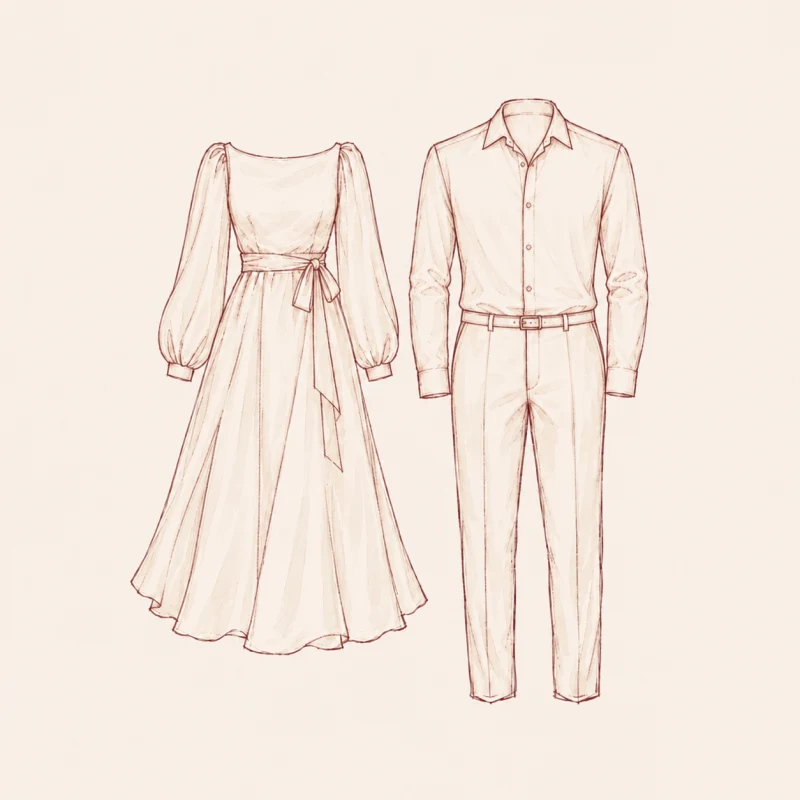
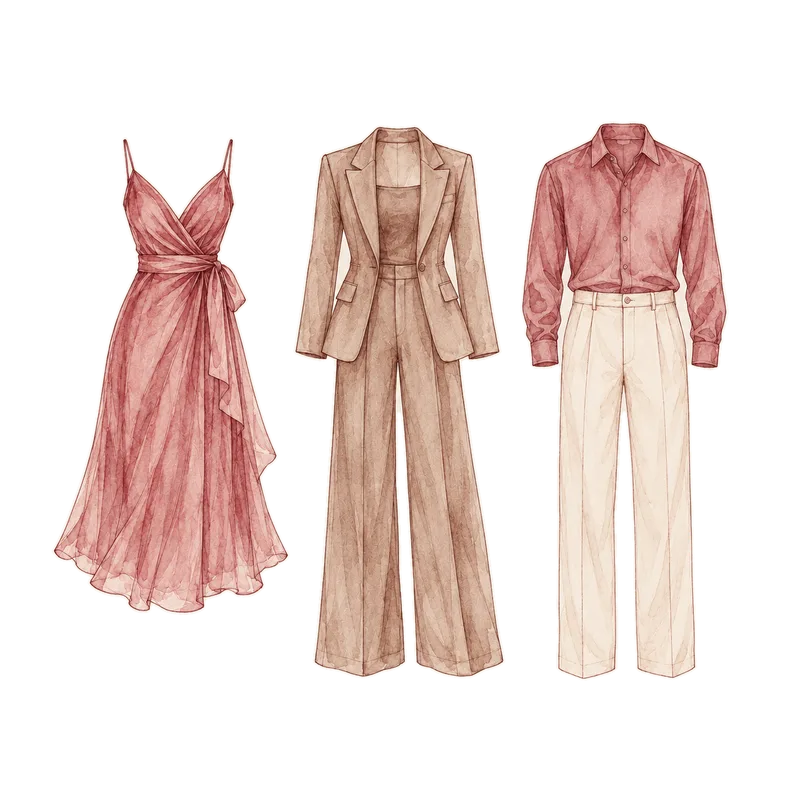
Match the dress code to the couple's attire guide
Ninang and ninong get their own drawings (rose gold gown, champagne
barong with black slacks), guests see dresses, pantsuits and long
sleeves, and the palette grows to six colours. The drawings no longer
carry a cream background.

diff --git a/frontend/src/App.jsx b/frontend/src/App.jsx
@@ -4,8 +4,8 @@ import Music from './Music.jsx'
 import Rsvp from './Rsvp.jsx'
 import { addToCalendar } from './ics.js'
 import { CalendarIcon, Monogram, PinIcon } from './icons.jsx'
-import barongImg from './assets/attire-barong.webp'
-import filipinianaImg from './assets/attire-filipiniana.webp'
+import ninongImg from './assets/attire-ninong.webp'
+import ninangImg from './assets/attire-ninang.webp'
 import guestsImg from './assets/attire-guests.webp'
 import timelineLine from './assets/timeline/line.webp'
 import paperUrl from './assets/paper.webp'
@@ -392,18 +392,20 @@ export default function App() {
               <div className="attire-card reveal">
                 <p className="attire-who">For our principal sponsors</p>
                 <div className="attire-pair">
-                  <img src={barongImg} width="800" height="800" loading="lazy" alt="Drawing of a Barong Tagalog with embroidered front panels" />
-                  <img src={filipinianaImg} width="800" height="800" loading="lazy" alt="Drawing of a Filipiniana gown with butterfly sleeves" />
+                  <img src={ninongImg} width="800" height="800" loading="lazy" alt="Drawing of a champagne Barong Tagalog over black slacks" />
+                  <img src={ninangImg} width="800" height="800" loading="lazy" alt="Drawing of a rose gold formal gown with flutter sleeves" />
                 </div>
                 <p className="attire-what">Formal wear</p>
-                <p className="attire-detail">Barong Tagalog<span className="diamond" aria-hidden="true" />Filipiniana</p>
+                <p className="attire-detail"><em>Ninong</em> · rose gold, champagne or cream barong with black slacks</p>
+                <p className="attire-detail"><em>Ninang</em> · rose gold or champagne formal dresses</p>
               </div>
 
               <div className="attire-card reveal">
                 <p className="attire-who">For our guests</p>
-                <img className="attire-single" src={guestsImg} width="800" height="800" loading="lazy" alt="Drawing of a long-sleeved midi dress beside a long-sleeve shirt and trousers" />
-                <p className="attire-what">Semi-formal attire</p>
-                <p className="attire-detail">in burgundy &amp; champagne</p>
+                <img className="attire-single" src={guestsImg} width="800" height="800" loading="lazy" alt="Drawing of a burgundy midi dress, a chocolate-brown pantsuit and a maroon long-sleeve shirt with trousers" />
+                <p className="attire-what">Formal or semi-formal</p>
+                <p className="attire-detail"><em>Ladies</em> · dresses or pantsuits</p>
+                <p className="attire-detail"><em>Gentlemen</em> · formal long sleeves or smart casual</p>
                 <ul className="swatches" aria-label="Our colour palette">
                   {WEDDING.palette.map((c) => (
                     <li key={c.name}><span style={{ background: c.hex }} />{c.name}</li>

diff --git a/frontend/src/index.css b/frontend/src/index.css
@@ -513,14 +513,15 @@ main.is-sealed .invite-head > *, main.is-sealed .invite-foot { opacity: 0; trans
 .attire-who { font-size: 18px; font-style: italic; color: var(--maroon); }
 .attire-pair { display: grid; grid-template-columns: repeat(2, minmax(0, 1fr)); margin: 10px -6px 6px; }
 .attire-pair img { width: 100%; height: auto; aspect-ratio: 1; }
-.attire-single { width: 220px; height: 220px; margin: 6px auto 4px; }
+.attire-single { width: 100%; height: auto; aspect-ratio: 1; margin: 6px 0 4px; }
 .attire-what { font-size: 28px; font-weight: 500; line-height: 1.2; }
-.attire-detail { margin-top: 6px; font-size: 17px; color: #5a463d; }
+.attire-detail { margin-top: 6px; font-size: 17px; line-height: 1.45; color: #5a463d; }
+.attire-detail em { color: var(--maroon); }
 .diamond { display: inline-block; width: 5px; height: 5px; margin: 0 10px 3px; background: #c9a96e; transform: rotate(45deg); }
 .attire-card .swatches { margin-top: 22px; padding-top: 18px; border-top: 1px solid #e2d6c2; }
 .attire-note { margin-top: 18px; font-size: 17px; font-style: italic; line-height: 1.5; color: #5a463d; }
 
-.swatches { list-style: none; margin: 0; padding: 0; display: grid; grid-template-columns: repeat(4, minmax(0, 1fr)); gap: 6px; }
+.swatches { list-style: none; margin: 0; padding: 0; display: grid; grid-template-columns: repeat(3, minmax(0, 1fr)); gap: 14px 6px; }
 .swatches li { display: flex; flex-direction: column; align-items: center; gap: 8px; font-size: 13px; letter-spacing: 0.08em; color: #5a463d; }
 .swatches li span { width: 44px; height: 44px; border-radius: 50%; box-shadow: 0 0 0 3px var(--cream), 0 0 0 4px #c9a96e; }
 

diff --git a/frontend/src/wedding.js b/frontend/src/wedding.js
@@ -37,9 +37,11 @@ export const WEDDING = {
   ],
   palette: [
     { name: 'Burgundy', hex: '#621828' },
-    { name: 'Wine', hex: '#8b1e35' },
-    { name: 'Champagne', hex: '#e8d3b4' },
-    { name: 'Ivory', hex: '#f6eee3' },
+    { name: 'Maroon', hex: '#7b2230' },
+    { name: 'Chocolate', hex: '#4e2e24' },
+    { name: 'Rose gold', hex: '#c48a78' },
+    { name: 'Champagne', hex: '#e2c9a6' },
+    { name: 'Cream', hex: '#f1e6d6' },
   ],
 }
 
